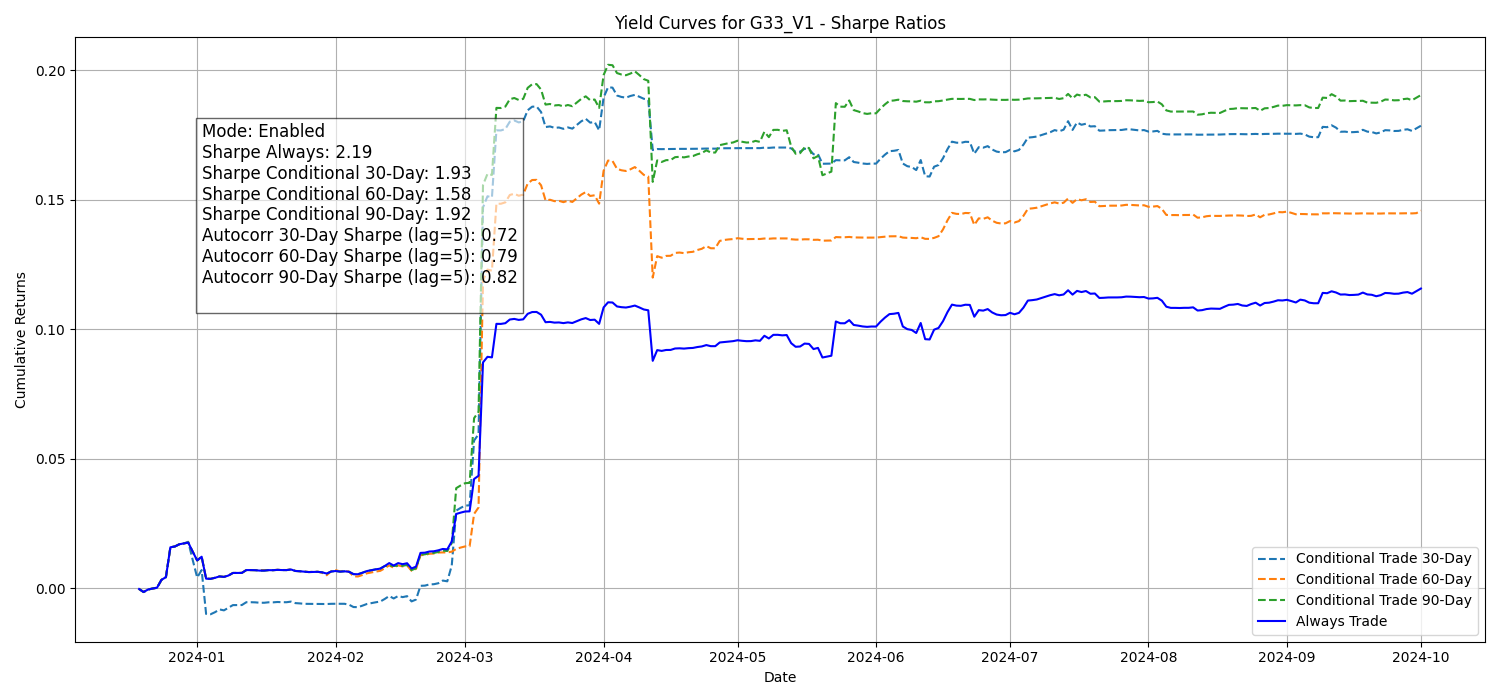
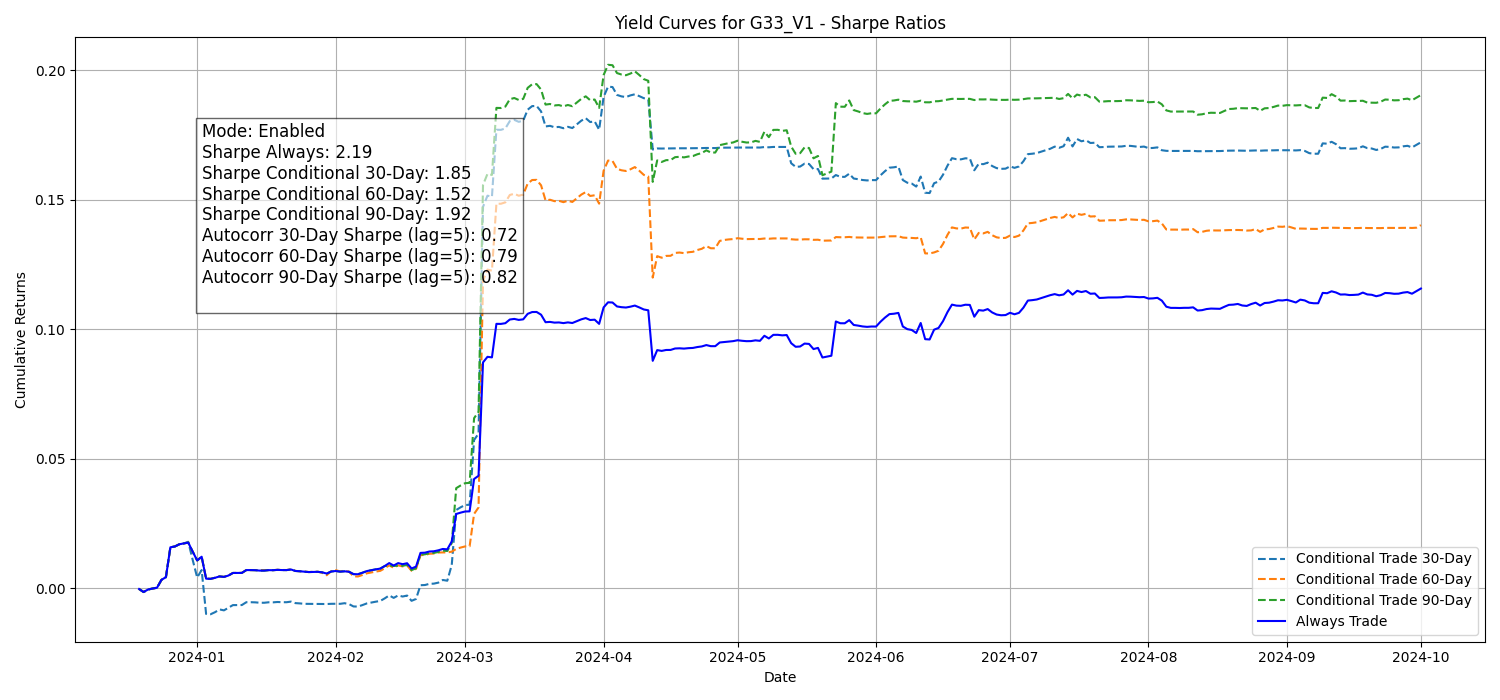
correct new mode

diff --git a/VLSTAR.py b/VLSTAR.py
@@ -409,9 +409,8 @@ def plot_yield_curves(
         regimes = test_regime_labels[window][strategy]
 
         if apply_mode:
-            rolling_sharpe = sharpe_series.rolling(window=5).mean()
             regimes = np.array(regimes)
-            regimes[rolling_sharpe < 0] = "Low"
+            regimes[sharpe_series < 0] = "Low"
 
         # Simulate returns
         df_sim, sharpe_always, sharpe_conditional = simulate_returns(
